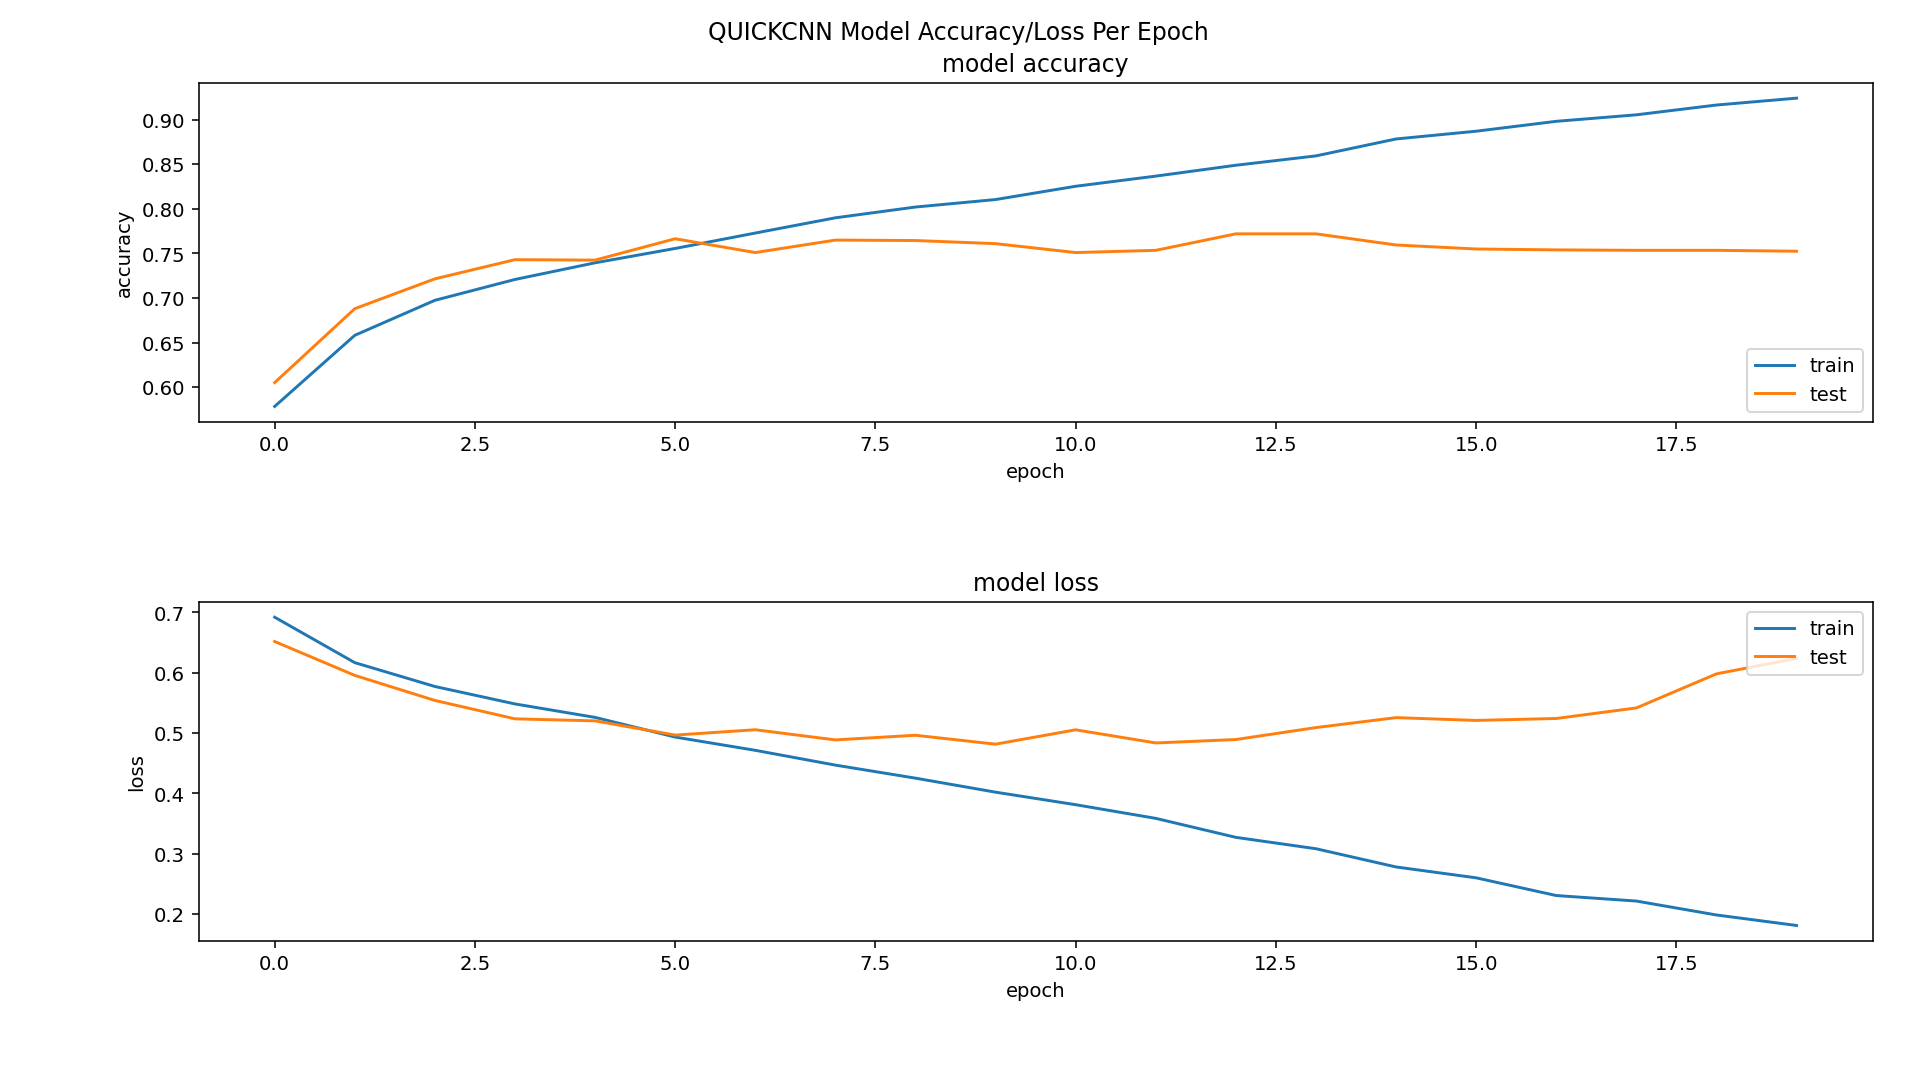
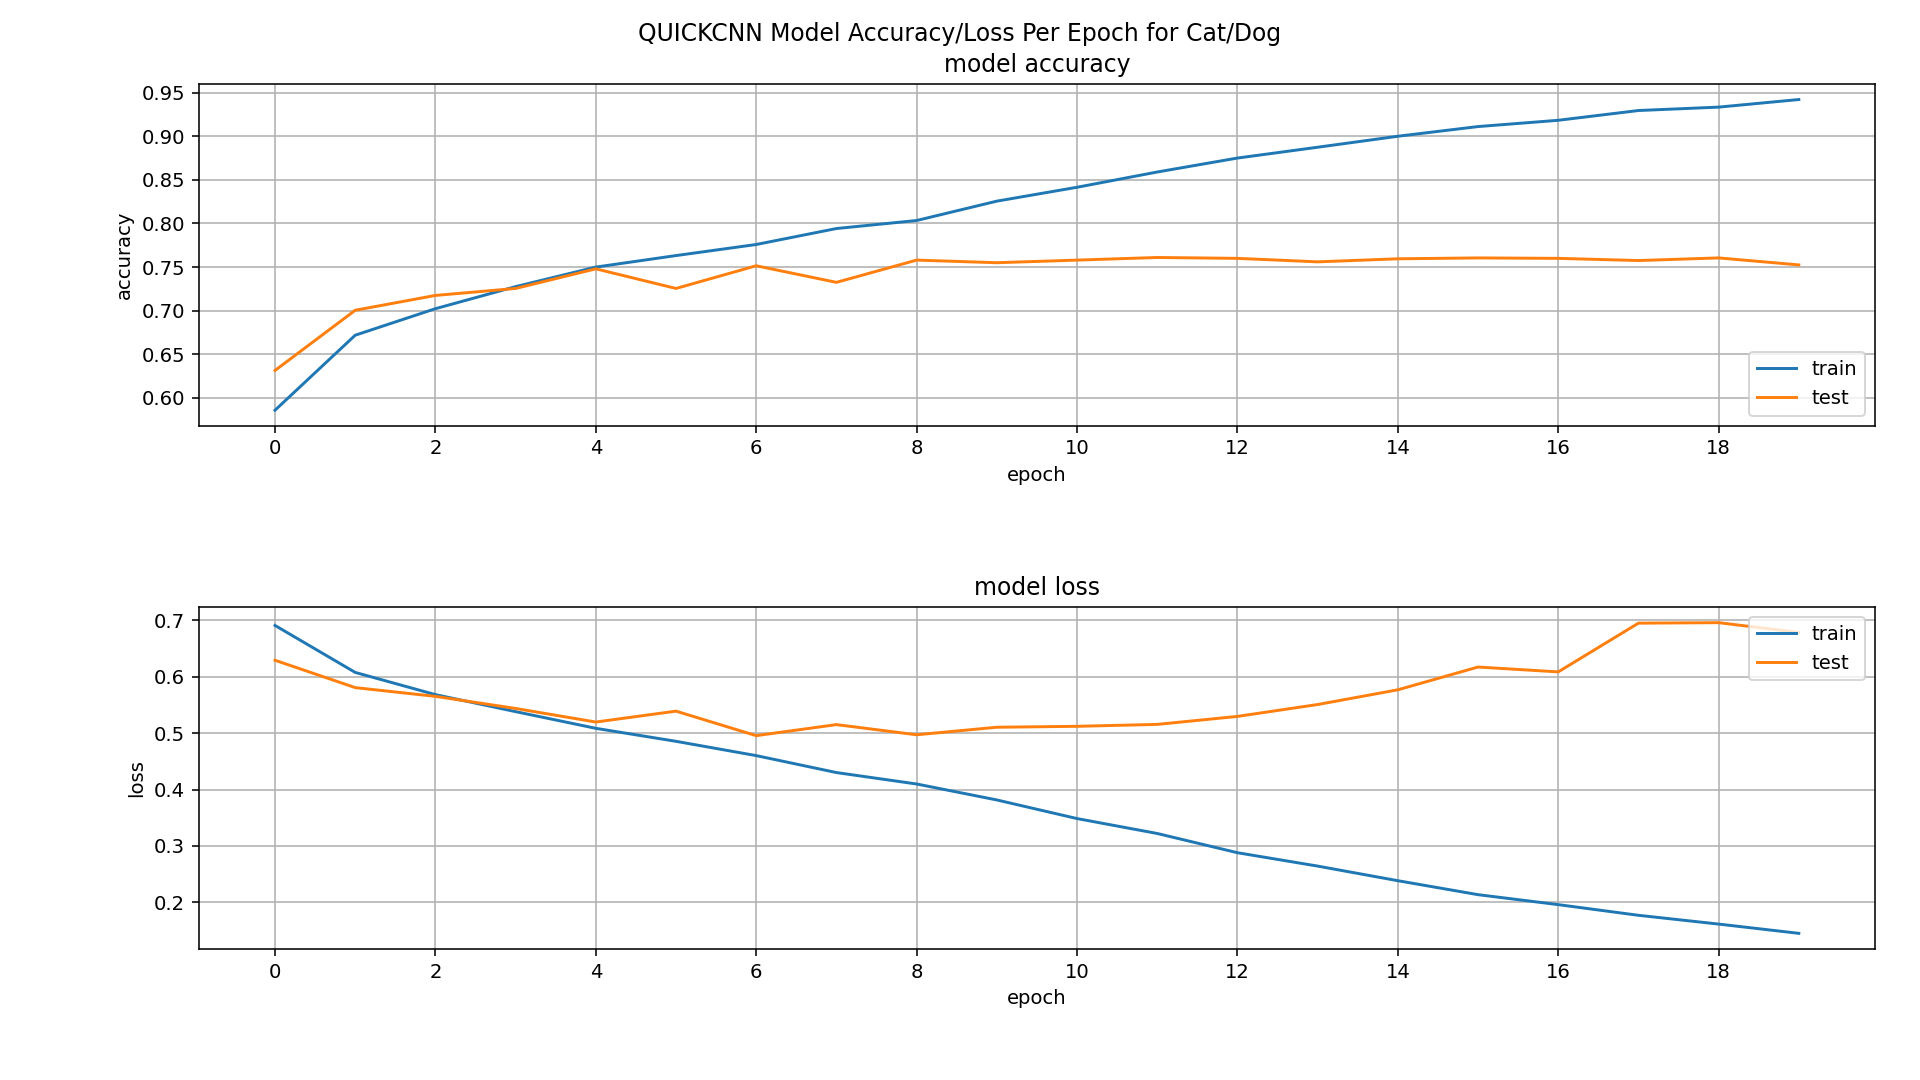
train time report and better plots

diff --git a/trainer.py b/trainer.py
@@ -7,6 +7,7 @@ from nn_models import *
 from keras import datasets, utils
 import matplotlib.pyplot as plt
 import numpy as np
+import time
 
 model_name = 'quickcnn' # cnn / unet / quickcnn / param / slowunet / test #
 chosen_classes = ['Cat','Dog'] # Choose two
@@ -54,20 +55,27 @@ match model_name:
         print('Not a valid model name!')
 
 model.compile(optimizer='adam',loss='sparse_categorical_crossentropy', metrics=['accuracy'])
+t = time.time()
 history = model.fit(train_images,train_labels,epochs=epochs,validation_data=(test_images,test_labels))
+elapsed_time = time.time() - t
+print(f'compile and fit time elapsed : {elapsed_time:.2f}s for ', epochs, ' epochs')
 
 utils.plot_model(model, show_shapes=True, show_layer_names=True, to_file=os.path.join(model_dir,model_name)+'_structure.png')
 print(model.summary())
 
 fig = plt.figure()
-plt.subplot(2,1,1)
+ax = plt.subplot(2,1,1)
+ax.set_xticks(np.arange(0, epochs+1, 2))
+ax.grid(which='both')
 plt.plot(history.history['accuracy'])
 plt.plot(history.history['val_accuracy'])
 plt.title('model accuracy')
 plt.ylabel('accuracy')
 plt.xlabel('epoch')
 plt.legend(['train', 'test'], loc='lower right')
-plt.subplot(2,1,2)
+ax =plt.subplot(2,1,2)
+ax.set_xticks(np.arange(0, epochs+1, 2))
+ax.grid(which='both')
 plt.plot(history.history['loss'])
 plt.plot(history.history['val_loss'])
 plt.title('model loss')
@@ -82,6 +90,6 @@ plt.show()
 
 loss,accuracy = model.evaluate(test_images,test_labels)
 f = open(os.path.join(model_dir,model_name)+'.log', 'a')
-f.write(f'Loss: {loss:.4f}, Accuracy: {accuracy:.4f} for '+chosen_classes[0]+'/'+chosen_classes[1]+' and '+str(epochs)+' epochs - \n')
+f.write(f'Loss: {loss:.4f}, Accuracy: {accuracy:.4f} for '+chosen_classes[0]+'/'+chosen_classes[1]+' and '+str(epochs)+f' epochs - train time: {elapsed_time:.2f} seconds - \n')
 f.close()
 model.save(os.path.join(model_dir,model_name)+'_model.keras')
